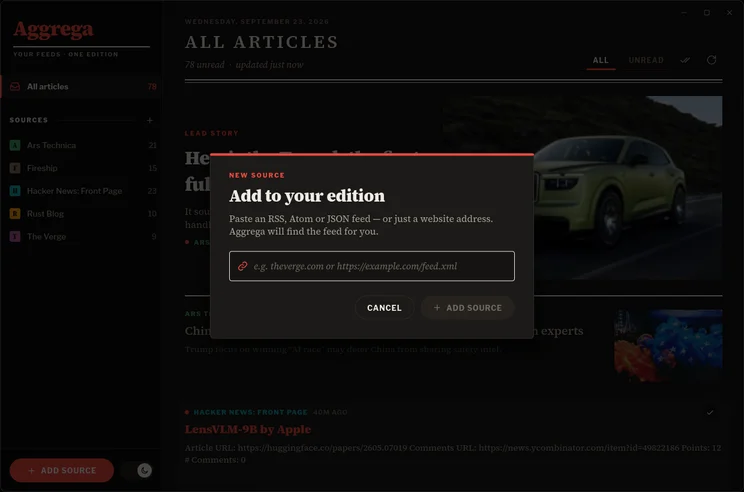
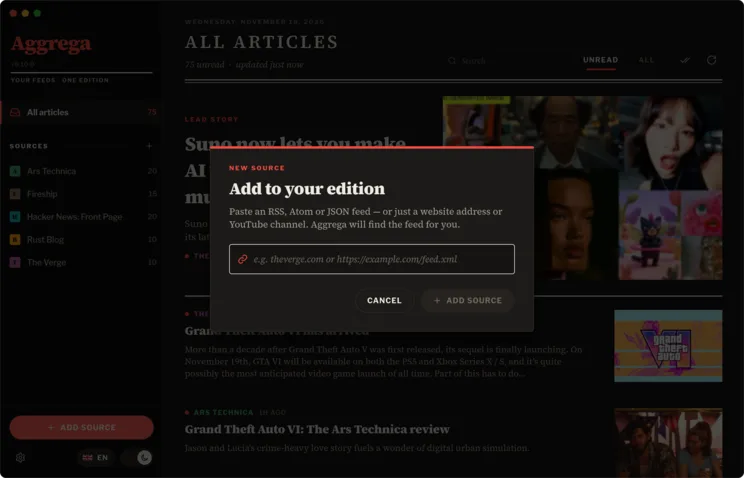
Refresh the README and landing page screenshots
Retake the light, dark and Add source shots so they show the current UI:
search, the Unread/All toggle, the version label, the settings button and
the language switch. The window now captures at 1240x796, so the landing
page's image dimensions follow.

diff --git a/public/index.html b/public/index.html
@@ -107,8 +107,8 @@
 
       <figure class="window">
         <div class="window__frame">
-          <img data-i18n-alt="shot.light" class="shot shot--light" src="images/app-light.webp" width="1240" height="820" alt="Aggrega in the light theme: a sidebar of sources on the left and a newspaper-style list of articles with a lead story." fetchpriority="high">
-          <img data-i18n-alt="shot.dark" class="shot shot--dark" src="images/app-dark.webp" width="1240" height="820" alt="Aggrega in the dark theme." loading="lazy">
+          <img data-i18n-alt="shot.light" class="shot shot--light" src="images/app-light.webp" width="1240" height="796" alt="Aggrega in the light theme: a sidebar of sources on the left and a newspaper-style list of articles with a lead story." fetchpriority="high">
+          <img data-i18n-alt="shot.dark" class="shot shot--dark" src="images/app-dark.webp" width="1240" height="796" alt="Aggrega in the dark theme." loading="lazy">
         </div>
       </figure>
     </section>
@@ -252,7 +252,7 @@
       </div>
 
       <figure class="spotlight">
-        <img data-i18n-alt="spot.alt" src="images/add-source.webp" width="744" height="492" alt="The Add source dialog, with a field for a website or feed address." loading="lazy">
+        <img data-i18n-alt="spot.alt" src="images/add-source.webp" width="744" height="478" alt="The Add source dialog, with a field for a website or feed address." loading="lazy">
         <figcaption>
           <p data-i18n="spot.kicker" class="kicker" style="--src: var(--src-rust)">Add source</p>
           <p data-i18n="spot.title" class="spotlight__title">Just type the website.</p>
